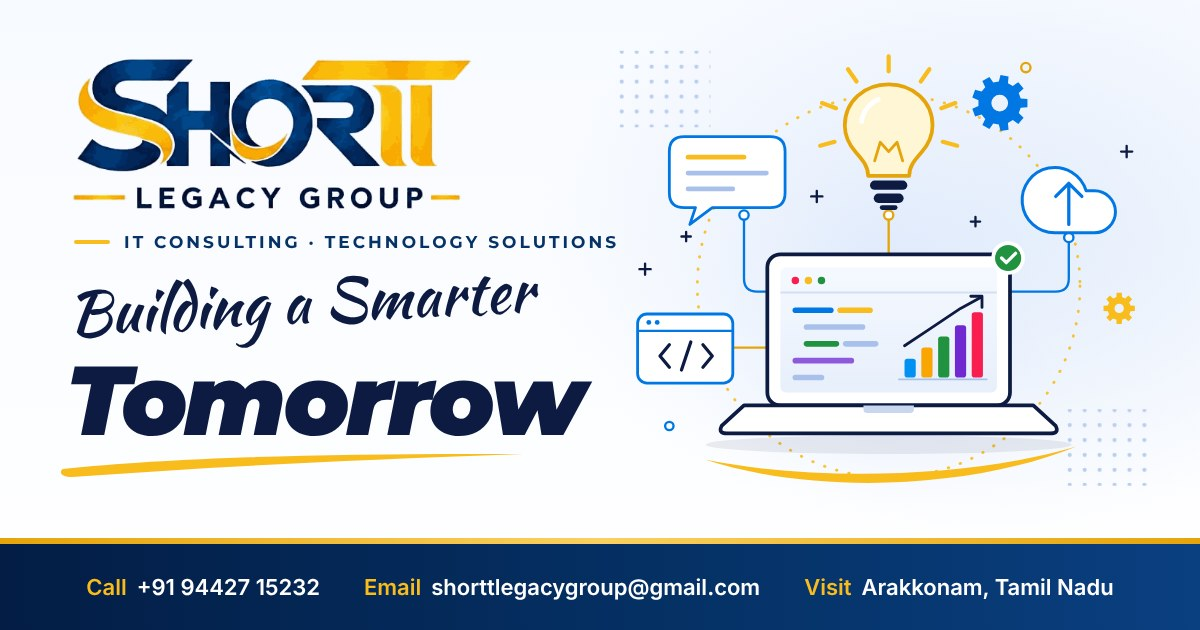
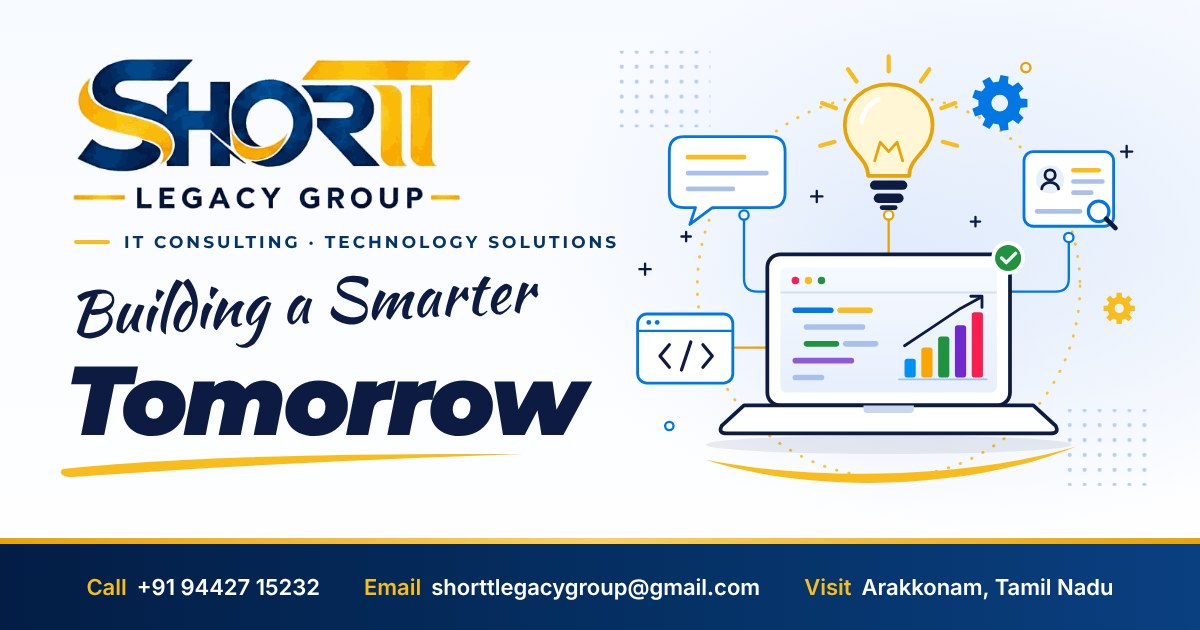
Replace the Cloud Solutions service with IT Recruitment
Swap the service everywhere it appears:

- Services section: the first card is now IT Recruitment, keeping the
  same blue accent, with Lucide's "user search" icon.
- Contact form: "IT Recruitment" replaces "Cloud Solutions" in the
  service list, and the Worker accepts it. Unknown services still fall
  back to "General enquiry".
- The hero text, footer, meta and social descriptions, structured data
  and README no longer mention cloud.
- The cloud in the hero illustration is now a candidate profile card,
  and og-image.jpg is re-rendered to match.

Checked locally with `wrangler dev`: the "Enquire about recruitment"
link pre-selects the service, and a test enquiry produced an email with
the subject "Website enquiry: IT Recruitment - ...".

Claude-Session: https://claude.ai/code/session_01LTbEdbLT7Q7oPgdQT3XRio

Changed region(s): [[0.8325, 0.2111, 0.9558, 0.3921]]

diff --git a/public/index.html b/public/index.html
@@ -4,7 +4,7 @@
   <meta charset="utf-8">
   <meta name="viewport" content="width=device-width, initial-scale=1">
   <title>Shortt Legacy Group OPC | IT Consulting &amp; Technology Solutions, Arakkonam</title>
-  <meta name="description" content="Shortt Legacy Group OPC provides cloud solutions, data &amp; analytics, application development, IT consulting and innovation services from Arakkonam, Tamil Nadu. Building a smarter tomorrow.">
+  <meta name="description" content="Shortt Legacy Group OPC provides IT recruitment, data &amp; analytics, application development, IT consulting and innovation services from Arakkonam, Tamil Nadu. Building a smarter tomorrow.">
   <meta name="theme-color" content="#053267">
   <link rel="canonical" href="https://shorttlegacygroup.com/">
 
@@ -13,7 +13,7 @@
   <meta property="og:url" content="https://shorttlegacygroup.com/">
   <meta property="og:site_name" content="Shortt Legacy Group OPC">
   <meta property="og:title" content="Shortt Legacy Group OPC – Building a Smarter Tomorrow">
-  <meta property="og:description" content="IT consulting and technology solutions: cloud, data &amp; analytics, application development, IT consulting and innovation.">
+  <meta property="og:description" content="IT consulting and technology solutions: IT recruitment, data &amp; analytics, application development, IT consulting and innovation.">
   <meta property="og:image" content="https://shorttlegacygroup.com/assets/img/og-image.jpg">
   <meta property="og:image:width" content="1200">
   <meta property="og:image:height" content="630">
@@ -50,7 +50,7 @@
     "logo": "https://shorttlegacygroup.com/assets/img/logo.png",
     "image": "https://shorttlegacygroup.com/assets/img/og-image.jpg",
     "slogan": "Building a Smarter Tomorrow",
-    "description": "IT consulting and technology solutions: cloud solutions, data & analytics, application development, IT consulting and innovation.",
+    "description": "IT consulting and technology solutions: IT recruitment, data & analytics, application development, IT consulting and innovation.",
     "telephone": "+91 94427 15232",
     "email": "shorttlegacygroup@gmail.com",
     "address": {
@@ -61,7 +61,7 @@
       "postalCode": "631001",
       "addressCountry": "IN"
     },
-    "knowsAbout": ["Cloud Solutions", "Data & Analytics", "Application Development", "IT Consulting", "Innovation & Solutions"]
+    "knowsAbout": ["IT Recruitment", "Data & Analytics", "Application Development", "IT Consulting", "Innovation & Solutions"]
   }
   </script>
 </head>
@@ -70,7 +70,7 @@
 
   <!-- Icon sprite (paths adapted from Lucide, ISC licence; WhatsApp glyph from Simple Icons, CC0) -->
   <svg class="sprite" xmlns="http://www.w3.org/2000/svg" aria-hidden="true" focusable="false">
-    <symbol id="i-cloud" viewBox="0 0 24 24"><path d="M17.5 19H9a7 7 0 1 1 6.71-9h1.79a4.5 4.5 0 1 1 0 9Z"/></symbol>
+    <symbol id="i-user-search" viewBox="0 0 24 24"><circle cx="10" cy="7" r="4"/><path d="M10.3 15H7a4 4 0 0 0-4 4v2"/><circle cx="17" cy="17" r="3"/><path d="m21 21-1.9-1.9"/></symbol>
     <symbol id="i-chart" viewBox="0 0 24 24"><path d="M3 21h18"/><path d="M6 17v-3"/><path d="M11 17v-6"/><path d="M16 17v-4"/><path d="m4 9 5-4 4 3 7-5"/><path d="M16 3h4v4"/></symbol>
     <symbol id="i-gear" viewBox="0 0 24 24"><path d="M12.22 2h-.44a2 2 0 0 0-2 2v.18a2 2 0 0 1-1 1.73l-.43.25a2 2 0 0 1-2 0l-.15-.08a2 2 0 0 0-2.73.73l-.22.38a2 2 0 0 0 .73 2.73l.15.1a2 2 0 0 1 1 1.72v.51a2 2 0 0 1-1 1.74l-.15.09a2 2 0 0 0-.73 2.73l.22.38a2 2 0 0 0 2.73.73l.15-.08a2 2 0 0 1 2 0l.43.25a2 2 0 0 1 1 1.73V20a2 2 0 0 0 2 2h.44a2 2 0 0 0 2-2v-.18a2 2 0 0 1 1-1.73l.43-.25a2 2 0 0 1 2 0l.15.08a2 2 0 0 0 2.73-.73l.22-.39a2 2 0 0 0-.73-2.73l-.15-.08a2 2 0 0 1-1-1.74v-.5a2 2 0 0 1 1-1.74l.15-.09a2 2 0 0 0 .73-2.73l-.22-.38a2 2 0 0 0-2.73-.73l-.15.08a2 2 0 0 1-2 0l-.43-.25a2 2 0 0 1-1-1.73V4a2 2 0 0 0-2-2z"/><circle cx="12" cy="12" r="3"/></symbol>
     <symbol id="i-users" viewBox="0 0 24 24"><path d="M16 21v-2a4 4 0 0 0-4-4H6a4 4 0 0 0-4 4v2"/><circle cx="9" cy="7" r="4"/><path d="M22 21v-2a4 4 0 0 0-3-3.87"/><path d="M16 3.13a4 4 0 0 1 0 7.75"/></symbol>
@@ -135,7 +135,7 @@
             <span class="hero__script">Building a Smarter</span>
             <span class="hero__strong">Tomorrow<svg class="hero__swoosh" viewBox="0 0 300 30" preserveAspectRatio="none" aria-hidden="true"><path d="M3 21C70 10 168 5 297 6 186 12 96 19 9 29 3 29 0 25 3 21Z"/></svg></span>
           </h1>
-          <p class="hero__lead">Shortt Legacy Group helps businesses and organisations put technology to work – from cloud and data to custom applications and down-to-earth IT advice – so you can focus on what you do best.</p>
+          <p class="hero__lead">Shortt Legacy Group helps businesses and organisations put technology to work – from data and custom applications to down-to-earth IT advice and skilled IT people for your team – so you can focus on what you do best.</p>
           <div class="hero__actions">
             <a class="btn btn--gold btn--lg" href="#contact">Start a conversation <svg class="icon" aria-hidden="true"><use href="#i-arrow-right"/></svg></a>
             <a class="btn btn--outline btn--lg" href="#services">Explore our services</a>
@@ -266,10 +266,20 @@
               </g>
             </g>
 
-            <!-- cloud with upload arrow -->
+            <!-- candidate profile card with magnifier (IT recruitment) -->
             <g class="art-float art-float--3">
-              <path transform="translate(438 118) scale(5)" d="M17.5 19H9a7 7 0 1 1 6.71-9h1.79a4.5 4.5 0 1 1 0 9Z" fill="#fff" stroke="#0177e4" stroke-width="3" stroke-linejoin="round" vector-effect="non-scaling-stroke"/>
-              <path d="M498 204V160M484 174L498 160 512 174" fill="none" stroke="#0177e4" stroke-width="3.5" stroke-linecap="round" stroke-linejoin="round"/>
+              <rect x="450" y="126" width="96" height="80" rx="10" fill="#fff" stroke="#0177e4" stroke-width="3"/>
+              <circle cx="478" cy="156" r="15" fill="#e7effb"/>
+              <circle cx="478" cy="151" r="5.5" fill="none" stroke="#0d1b42" stroke-width="3"/>
+              <path d="M469 166a9 7 0 0 1 18 0" fill="none" stroke="#0d1b42" stroke-width="3" stroke-linecap="round"/>
+              <g stroke-width="5" stroke-linecap="round">
+                <path d="M503 146H530" stroke="#f8bc1c"/>
+                <path d="M503 158H534" stroke="#a9c1ea"/>
+                <path d="M503 170H522" stroke="#a9c1ea"/>
+                <path d="M464 190H510" stroke="#a9c1ea"/>
+              </g>
+              <circle cx="530" cy="190" r="11" fill="#fff" stroke="#0177e4" stroke-width="3.5"/>
+              <path d="M538 198L548 208" stroke="#0d1b42" stroke-width="5" stroke-linecap="round"/>
             </g>
 
             <!-- code window -->
@@ -301,17 +311,17 @@
         </header>
 
         <ul class="service-grid" role="list">
-          <li class="service-card service-card--cloud reveal">
-            <span class="service-card__icon"><svg class="icon" aria-hidden="true"><use href="#i-cloud"/></svg></span>
-            <h3>Cloud Solutions</h3>
-            <p>Move to the cloud with confidence. We plan, set up and look after cloud services that are secure, reliable and sized to your budget.</p>
+          <li class="service-card service-card--recruit reveal">
+            <span class="service-card__icon"><svg class="icon" aria-hidden="true"><use href="#i-user-search"/></svg></span>
+            <h3>IT Recruitment</h3>
+            <p>Hire skilled IT professionals with confidence. We find, screen and shortlist candidates, so you only interview people who fit your team and budget.</p>
             <ul class="service-card__list" role="list">
-              <li><svg class="icon" aria-hidden="true"><use href="#i-check"/></svg>Cloud migration &amp; setup</li>
-              <li><svg class="icon" aria-hidden="true"><use href="#i-check"/></svg>Business email &amp; collaboration</li>
-              <li><svg class="icon" aria-hidden="true"><use href="#i-check"/></svg>Backup &amp; disaster recovery</li>
-              <li><svg class="icon" aria-hidden="true"><use href="#i-check"/></svg>Cloud cost optimisation</li>
+              <li><svg class="icon" aria-hidden="true"><use href="#i-check"/></svg>Permanent &amp; contract hiring</li>
+              <li><svg class="icon" aria-hidden="true"><use href="#i-check"/></svg>Candidate sourcing &amp; shortlisting</li>
+              <li><svg class="icon" aria-hidden="true"><use href="#i-check"/></svg>Technical screening &amp; interviews</li>
+              <li><svg class="icon" aria-hidden="true"><use href="#i-check"/></svg>Freshers to experienced professionals</li>
             </ul>
-            <a class="service-card__link" href="#contact" data-service="Cloud Solutions">Enquire about cloud<svg class="icon" aria-hidden="true"><use href="#i-arrow-right"/></svg></a>
+            <a class="service-card__link" href="#contact" data-service="IT Recruitment">Enquire about recruitment<svg class="icon" aria-hidden="true"><use href="#i-arrow-right"/></svg></a>
           </li>
 
           <li class="service-card service-card--data reveal">
@@ -534,7 +544,7 @@
             <label for="cf-service">I’m interested in</label>
             <select id="cf-service" name="service">
               <option>General enquiry</option>
-              <option>Cloud Solutions</option>
+              <option>IT Recruitment</option>
               <option>Data &amp; Analytics</option>
               <option>Application Development</option>
               <option>IT Consulting</option>
@@ -572,7 +582,7 @@
       <nav class="footer__col" aria-label="Services">
         <h2 class="footer__title">Services</h2>
         <ul role="list">
-          <li><a href="#services">Cloud Solutions</a></li>
+          <li><a href="#services">IT Recruitment</a></li>
           <li><a href="#services">Data &amp; Analytics</a></li>
           <li><a href="#services">Application Development</a></li>
           <li><a href="#services">IT Consulting</a></li>

diff --git a/public/assets/css/styles.css b/public/assets/css/styles.css
@@ -49,8 +49,8 @@
   --green-500: #008566;
 
   /* Service accents (banner icon colours) */
-  --cloud: #0170e0;
-  --cloud-2: #0a93f2;
+  --recruit: #0170e0;
+  --recruit-2: #0a93f2;
   --data: #f39200;
   --data-2: #fbc93a;
   --app: #13893f;
@@ -739,7 +739,7 @@ address {
   width: calc(100% - 3.5rem);
 }
 
-.service-card--cloud { --accent: var(--cloud); --accent-2: var(--cloud-2); }
+.service-card--recruit { --accent: var(--recruit); --accent-2: var(--recruit-2); }
 .service-card--data { --accent: var(--data); --accent-2: var(--data-2); }
 .service-card--app { --accent: var(--app); --accent-2: var(--app-2); }
 .service-card--itc { --accent: var(--itc); --accent-2: var(--itc-2); }

diff --git a/worker/index.js b/worker/index.js
@@ -11,7 +11,7 @@ import { EmailMessage } from "cloudflare:email";
 
 const SERVICES = [
   "General enquiry",
-  "Cloud Solutions",
+  "IT Recruitment",
   "Data & Analytics",
   "Application Development",
   "IT Consulting",

diff --git a/README.md b/README.md
@@ -9,7 +9,7 @@ It is a single-page static site built with plain HTML, CSS and JavaScript. There
 | Section | Contents |
 | --- | --- |
 | Hero | "Building a Smarter Tomorrow" headline, a short introduction, buttons, and quick links to phone and email |
-| Services | Cloud Solutions, Data & Analytics, Application Development, IT Consulting, Innovation & Solutions |
+| Services | IT Recruitment, Data & Analytics, Application Development, IT Consulting, Innovation & Solutions |
 | About | Who we are, the proprietor and the company's values |
 | How we work | A four-step process: Listen → Plan → Build → Support |
 | Contact | Phone, email, address with directions, and a message form |
